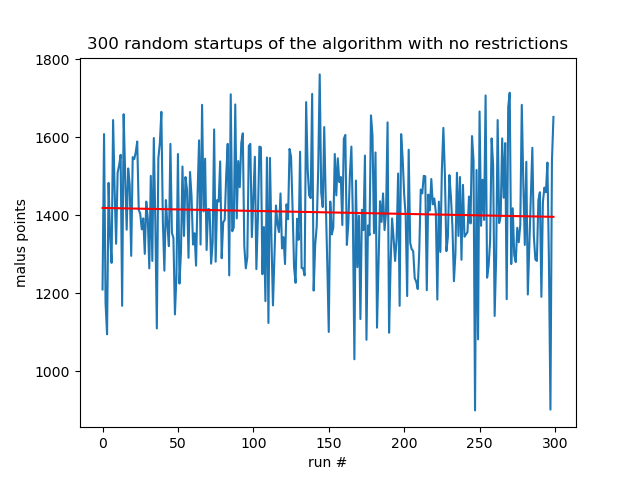
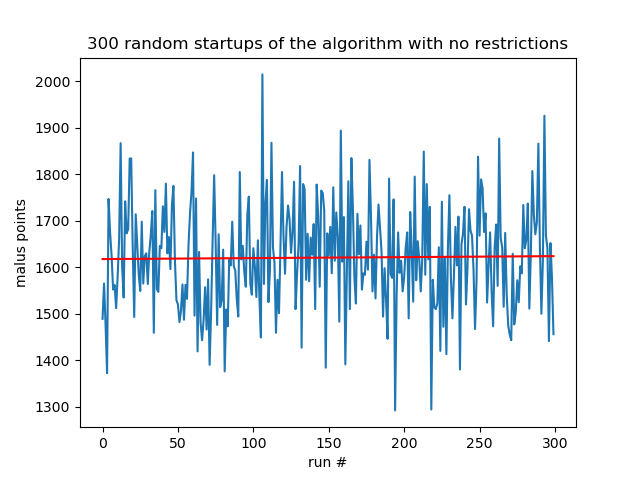
Update

diff --git a/classes/roster.py b/classes/roster.py
@@ -11,6 +11,9 @@ class Roster():
 
         self.malus_count = 0
 
+        self.lecture_fill_preference = -10
+        self.class_fill_preference = -5
+
         self.malus_cause = {}
         self.init_malus()
 
@@ -61,6 +64,30 @@ class Roster():
         return selected_room
 
 
+    def fill_schedule_random(self, course, class_type, count, attending):
+        """ This function fills a schedule with no student restraints. If there are no rooms available it prints an Error message."""
+
+        # Make key if not existent
+        if course.name not in self.schedule:
+            self.schedule[course.name] = {}
+
+        succes = False
+        while not succes:
+            room = random.choice(self.rooms)
+            day = random.choice(list(room.availability.keys()))
+            timeslot = random.choice(list(room.availability[day].keys()))
+
+            # If timeslot is available
+            if room.availability[day][timeslot]:
+
+                self.schedule[course.name][f'{class_type} {count}'] = {}
+                clas_number = f"{class_type} {count}"
+                schedule_fill.place_in_schedule(self, room, day, timeslot, course.name, clas_number)
+
+                self.check_malus(timeslot, room.capacity, attending)
+                succes = True
+
+
     def fill_schedule(self, course, class_type, count, attending):
         """ This function fills a schedule with no student restraints. If there are no rooms available it prints an Error message."""
 
@@ -79,11 +106,11 @@ class Roster():
 
                     # If timeslot is availibale
                     if room.availability[day][timeslot]:
-                        
+
                         self.schedule[course.name][f'{class_type} {count}'] = {}
                         clas_number = f"{class_type} {count}"
                         schedule_fill.place_in_schedule(self, room, day, timeslot, course.name, clas_number)
-                        
+
                         self.check_malus(timeslot, room.capacity, attending)
                         return
 

diff --git a/functions/schedule_fill.py b/functions/schedule_fill.py
@@ -7,7 +7,7 @@ def schedule_fill(roster, course_list):
 
             # check how many students will attend this lecture
             attending = course.enrolled
-            roster.fill_schedule(course, "lecture", i + 1, attending)
+            roster.fill_schedule_random(course, "lecture", i + 1, attending)
 
         # outer loop is incase more than one tut per group
         ## in csv there is always one tut or pract, but we want to make the program scalable 
@@ -16,14 +16,14 @@ def schedule_fill(roster, course_list):
 
                 # check how many students will attend this tutorial
                 attending = course.tut_group_dict[i + 1]
-                roster.fill_schedule(course, "tutorial", i + 1, attending)
+                roster.fill_schedule_random(course, "tutorial", i + 1, attending)
 
         for _ in range(course.practica):
             for i in range(course.practica_rooms):
 
                 # check how many students will attend this practical
                 attending = course.pract_group_dict[i + 1]
-                roster.fill_schedule(course, "practical", i + 1, attending)
+                roster.fill_schedule_random(course, "practical", i + 1, attending)
 
     fill_empty_slots(roster)
 

diff --git a/classes/baseline.py b/classes/baseline.py
@@ -31,7 +31,7 @@ class Baseline():
         parent_dir = os.path.dirname(current_dir)
 
         # Directory "visualize"
-        directory_plots = os.path.join(parent_dir, 'AH/vizualize')
+        directory_plots = os.path.join(parent_dir, 'AH/visualize')
 
         # Fit a polynomial of degree 1 (i.e. a linear regression) to the data
         coefficients = np.polyfit(self.iterations, self.costs, 1)
@@ -59,5 +59,4 @@ class Baseline():
 
     def rearrange(self):
         Schuffeler = ChangeClass.Change(self.df, self.course_list, self.student_list, self.Roster)
-        Schuffeler.swap_2_lectures()
-        # Schuffeler.switch_2_students(num=10)
+        Schuffeler.swap_2_students(num=100)

diff --git a/classes/change.py b/classes/change.py
@@ -108,7 +108,7 @@ class Change():
                         if student1_classes in student1.timeslots[course.name]:
                             student1.timeslots[course.name].pop(student2_classes)
 
-    def switch_2_students(self, num = 100):
+    def swap_2_students(self, num = 100):
 
         switch_student_list = self.__find_worst_students(num)
 
@@ -145,3 +145,11 @@ class Change():
         for course in self.course_list:
             if course.lectures > 0:
                 self.__swap_lecture(course)
+
+
+    def swap_rooms(self):
+
+        for course in self.Roster.schedule:
+            print()
+            print(course)
+            print(self.Roster.schedule[course])

diff --git a/test.py b/test.py
@@ -1,4 +1,7 @@
-dict1 = {'a': 1}
-dict2 = {'b': 2}
-merged_dict = {**dict1, **dict2}
-print(merged_dict)
+import random
+dict1 = {'a': 1, 'b': 2, 'f': 3,'c': 8}
+
+
+
+day = random.choice(list(dict1.keys()))
+print(day)
